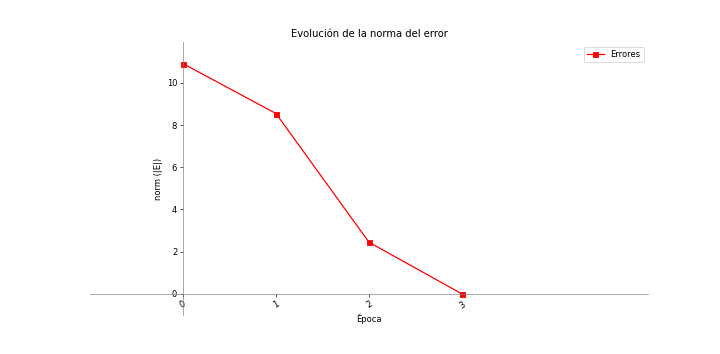
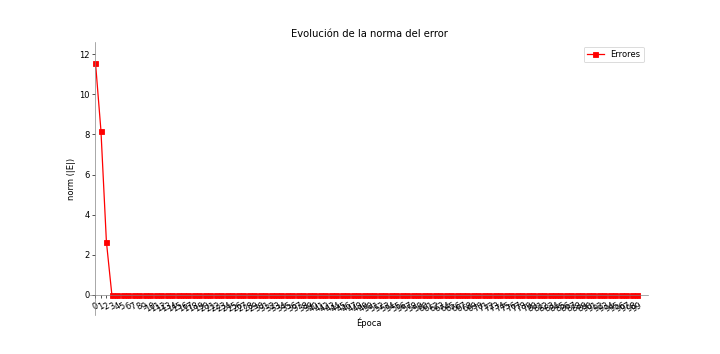
[ADD] update to the w initial be of eras one - comment

diff --git a/src/algorithms/perceptron.py b/src/algorithms/perceptron.py
@@ -7,6 +7,7 @@ def execute_perceptron(data):
     matrix = np.insert(np.array(data["matrix"]), 0, 1, axis=1)
     yd = np.array(matrix[:, -1]).astype(int).reshape(-1, 1)
     w = initializer_w(matrix)
+    # w_eras = [] para que la epoca 1 sea la w inicial comenta la linea 11
     w_eras = [w]
     errors = []
     # iterations = 0
@@ -17,6 +18,7 @@ def execute_perceptron(data):
         delta_w = calculate_delta_w(data["eta"], e, matrix)
         norm = calculate_norm(e)
         errors.append(norm)
+        # w_eras.append(w) para que la epoca 1 sea la w inicial comenta la linea 22
         w = update_w(w, delta_w)
         w_eras.append(w)
         # iterations = era
